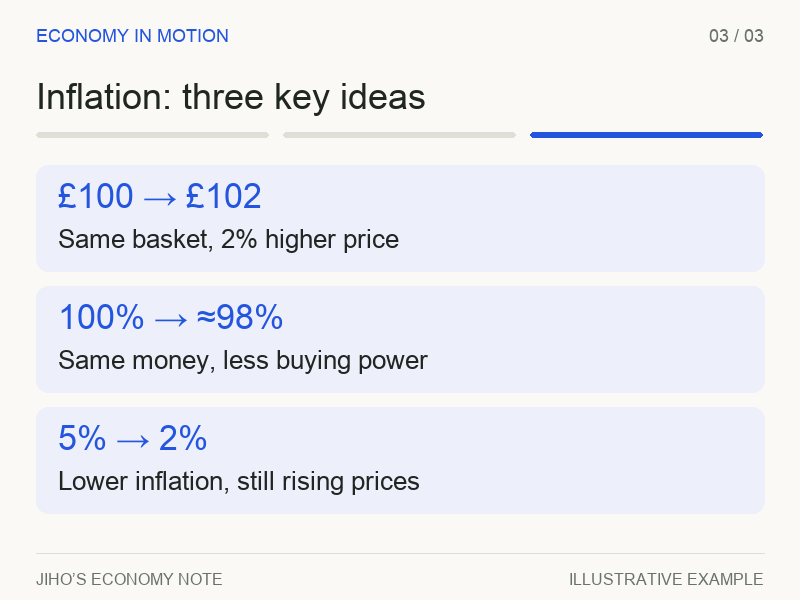
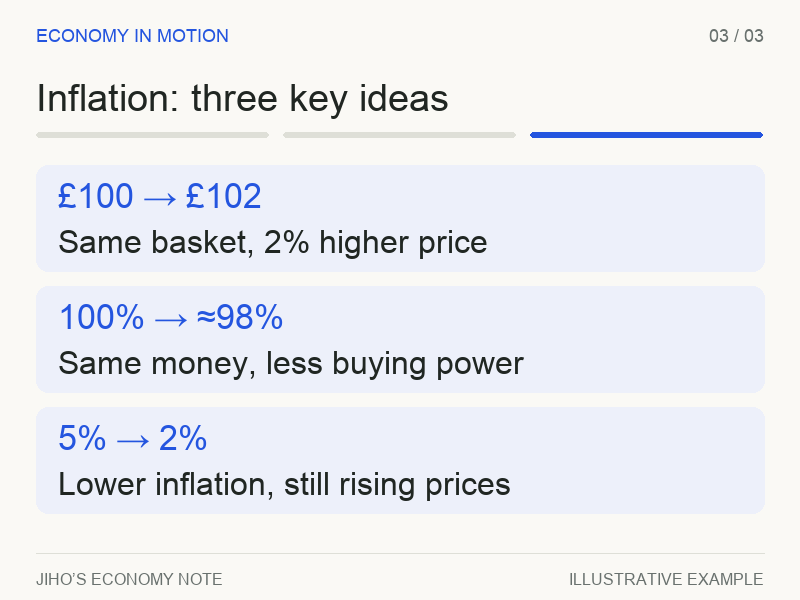
Expand inflation explanations and improve reading size and animation pacing

diff --git a/index.html b/index.html
@@ -7,9 +7,9 @@
   <meta name="theme-color" content="#2455df">
   <title>지호의 경제노트 · 일상에서 발견하는 경제</title>
   <link rel="icon" href="./favicon.svg" type="image/svg+xml">
-  <link rel="stylesheet" href="./styles.css?v=gif-1">
-  <script src="./i18n.js?v=gif-1" defer></script>
-  <script src="./app.js?v=gif-1" defer></script>
+  <link rel="stylesheet" href="./styles.css?v=readable-2">
+  <script src="./i18n.js?v=readable-2" defer></script>
+  <script src="./app.js?v=readable-2" defer></script>
 </head>
 <body>
   <a class="skip-link" href="#main">본문 바로가기</a>
@@ -24,14 +24,14 @@
   <main id="main">
     <section class="hero wrap" aria-labelledby="hero-title">
       <div class="hero-copy"><div class="eyebrow"><span class="small-dot"></span> EVERYDAY ECONOMICS</div>
-        <h1 id="hero-title">경제를 알면,<br>일상이 <span>다르게</span><br>보입니다.</h1>
-        <p>커피 한 잔의 가격부터 내 통장의 이자까지.<br>어려운 경제 이야기를, 우리 생활의 언어로 풀어봅니다.</p>
+        <h1 id="hero-title">경제를 알면,<br> 일상이 <span>다르게</span><br> 보입니다.</h1>
+        <p>커피 한 잔의 가격부터 내 통장의 이자까지.<br> 어려운 경제 이야기를, 우리 생활의 언어로 풀어봅니다.</p>
         <a class="button primary" href="#concepts">첫 번째 경제노트 펼치기 <span aria-hidden="true">↗</span></a>
         <div class="hero-caption"><span>01 — 06</span> 여섯 가지 개념으로 시작하는 경제 공부</div>
       </div>
       <div class="hero-visual" aria-label="커피 가격으로 배우는 물가 상승 예시">
         <div class="visual-top"><span>THE COFFEE INDEX</span><span>생활 속 경제 ↗</span></div>
-        <div class="visual-question">같은 커피인데,<br>왜 더 비싸졌을까?</div>
+        <div class="visual-question">같은 커피인데,<br> 왜 더 비싸졌을까?</div>
         <div class="coffee-art" aria-hidden="true"><div class="orbit orbit-one"></div><div class="orbit orbit-two"></div><div class="coffee-shadow"></div><div class="cup-lid"></div><div class="cup"><div class="cup-band"><span>e.</span><small>DAILY ECONOMY</small></div></div><span class="floating plus">+</span><span class="floating star">✳</span><div class="price price-before"><small>지난해</small><strong>4,000<span>원</span></strong></div><div class="price price-after"><small>올해</small><strong>4,200<span>원</span></strong><span class="price-change">+5%</span></div></div>
         <div class="visual-bottom"><span>가격 속에 숨어 있는 경제를 발견해 보세요.</span><span class="demo-label">가상 예시</span></div>
       </div>
@@ -42,22 +42,24 @@
       <div class="filters" role="group" aria-label="경제 개념 주제"><button class="filter active" data-filter="all" aria-pressed="true">전체 보기</button><button class="filter" data-filter="daily" aria-pressed="false">생활 속 경제</button><button class="filter" data-filter="money" aria-pressed="false">돈의 흐름</button><button class="filter" data-filter="big" aria-pressed="false">경제의 큰 그림</button></div>
       <p id="filter-status" class="sr-only" aria-live="polite">6개의 경제노트</p>
       <div class="notes-grid">
-        <button class="note-card" data-category="daily" data-lesson="inflation"><span class="card-top"><span>01 · 생활 속 경제</span><span aria-hidden="true">↗</span></span><span class="note-icon blue" aria-hidden="true">↗</span><h3>물가와 인플레이션</h3><p>만 원으로 살 수 있는 것이<br>점점 줄어드는 이유.</p><span class="card-bottom">돈의 구매력 이해하기 <span>읽기 →</span></span></button>
-        <button class="note-card" data-category="money" data-lesson="interest"><span class="card-top"><span>02 · 돈의 흐름</span><span aria-hidden="true">↗</span></span><span class="note-icon green" aria-hidden="true">%</span><h3>금리</h3><p>돈에도 가격이 있다면?<br>빌리는 돈과 맡기는 돈의 이야기.</p><span class="card-bottom">이자가 생기는 원리 <span>읽기 →</span></span></button>
-        <button class="note-card" data-category="money" data-lesson="exchange"><span class="card-top"><span>03 · 돈의 흐름</span><span aria-hidden="true">↗</span></span><span class="note-icon orange" aria-hidden="true">⇄</span><h3>환율</h3><p>달러 가격이 오르면<br>해외여행은 왜 비싸질까?</p><span class="card-bottom">두 나라 돈의 교환 비율 <span>읽기 →</span></span></button>
-        <button class="note-card" data-category="daily" data-lesson="supply"><span class="card-top"><span>04 · 생활 속 경제</span><span aria-hidden="true">↗</span></span><span class="note-icon orange" aria-hidden="true">⚖</span><h3>수요와 공급</h3><p>사려는 사람, 팔려는 사람.<br>가격은 그 사이에서 정해집니다.</p><span class="card-bottom">시장에서 가격이 만나는 곳 <span>읽기 →</span></span></button>
-        <button class="note-card" data-category="big" data-lesson="gdp"><span class="card-top"><span>05 · 경제의 큰 그림</span><span aria-hidden="true">↗</span></span><span class="note-icon blue" aria-hidden="true">▥</span><h3>GDP와 경제성장</h3><p>한 나라의 경제는<br>얼마나 커졌을까?</p><span class="card-bottom">생산의 크기로 읽는 경제 <span>읽기 →</span></span></button>
-        <button class="note-card" data-category="daily" data-lesson="opportunity"><span class="card-top"><span>06 · 생활 속 경제</span><span aria-hidden="true">↗</span></span><span class="note-icon green" aria-hidden="true">↔</span><h3>기회비용</h3><p>무언가를 선택할 때<br>함께 포기하게 되는 것.</p><span class="card-bottom">더 나은 선택의 시작 <span>읽기 →</span></span></button>
+        <button class="note-card" data-category="daily" data-lesson="inflation"><span class="card-top"><span>01 · 생활 속 경제</span><span aria-hidden="true">↗</span></span><span class="note-icon blue" aria-hidden="true">↗</span><h3>물가와 인플레이션</h3><p>만 원으로 살 수 있는 것이<br> 점점 줄어드는 이유.</p><span class="card-bottom">돈의 구매력 이해하기 <span>읽기 →</span></span></button>
+        <button class="note-card" data-category="money" data-lesson="interest"><span class="card-top"><span>02 · 돈의 흐름</span><span aria-hidden="true">↗</span></span><span class="note-icon green" aria-hidden="true">%</span><h3>금리</h3><p>돈에도 가격이 있다면?<br> 빌리는 돈과 맡기는 돈의 이야기.</p><span class="card-bottom">이자가 생기는 원리 <span>읽기 →</span></span></button>
+        <button class="note-card" data-category="money" data-lesson="exchange"><span class="card-top"><span>03 · 돈의 흐름</span><span aria-hidden="true">↗</span></span><span class="note-icon orange" aria-hidden="true">⇄</span><h3>환율</h3><p>달러 가격이 오르면<br> 해외여행은 왜 비싸질까?</p><span class="card-bottom">두 나라 돈의 교환 비율 <span>읽기 →</span></span></button>
+        <button class="note-card" data-category="daily" data-lesson="supply"><span class="card-top"><span>04 · 생활 속 경제</span><span aria-hidden="true">↗</span></span><span class="note-icon orange" aria-hidden="true">⚖</span><h3>수요와 공급</h3><p>사려는 사람, 팔려는 사람.<br> 가격은 그 사이에서 정해집니다.</p><span class="card-bottom">시장에서 가격이 만나는 곳 <span>읽기 →</span></span></button>
+        <button class="note-card" data-category="big" data-lesson="gdp"><span class="card-top"><span>05 · 경제의 큰 그림</span><span aria-hidden="true">↗</span></span><span class="note-icon blue" aria-hidden="true">▥</span><h3>GDP와 경제성장</h3><p>한 나라의 경제는<br> 얼마나 커졌을까?</p><span class="card-bottom">생산의 크기로 읽는 경제 <span>읽기 →</span></span></button>
+        <button class="note-card" data-category="daily" data-lesson="opportunity"><span class="card-top"><span>06 · 생활 속 경제</span><span aria-hidden="true">↗</span></span><span class="note-icon green" aria-hidden="true">↔</span><h3>기회비용</h3><p>무언가를 선택할 때<br> 함께 포기하게 되는 것.</p><span class="card-bottom">더 나은 선택의 시작 <span>읽기 →</span></span></button>
       </div>
     </section>
     <section id="animation" class="wrap animation-section" aria-labelledby="animation-title">
-      <div class="section-heading"><div><div class="eyebrow">ECONOMY IN MOTION / ORIGINAL GIF</div><h2 id="animation-title">움직이는 그림으로 배우는 물가</h2><p class="animation-intro">가격, 구매력, 물가상승률. 세 장면으로 연결해 보세요.</p></div></div>
+      <div class="section-heading"><div><div class="eyebrow">ECONOMY IN MOTION / ORIGINAL GIF</div><h2 id="animation-title">인플레이션: 같은 돈으로 살 수 있는 것이 줄어드는 이유</h2><p class="animation-intro">인플레이션은 여러 상품과 서비스의 전반적인 가격 수준이 지속적으로 오르는 현상입니다. 식료품, 교통비, 주거비 등이 전반적으로 비싸지면 같은 돈으로 살 수 있는 양, 즉 구매력이 줄어듭니다.</p></div></div>
+      <p class="inflation-definition">커피 한 잔의 가격이 올랐다고 전체 물가가 그만큼 오른 것은 아닙니다. 소비자물가지수(CPI)는 가계가 구매하는 다양한 상품과 서비스를 장바구니처럼 묶어 가격 변화를 측정합니다. 전년 대비 물가상승률은 이 지수가 1년 전보다 얼마나 변했는지를 나타냅니다.</p>
       <figure class="animation-figure">
         <img id="inflation-animation" src="./assets/inflation-en-still.png" width="800" height="600" loading="lazy" alt="물가 상승, 구매력 감소, 물가상승률 하락을 설명하는 세 가지 예시. 아래 글로 보기에 전체 설명이 있습니다.">
         <figcaption class="animation-caption">영란은행의 인플레이션 설명을 참고한 자체 제작 학습 자료입니다. 수치는 가상 예시이며, 원본 영상의 장면이나 음성은 사용하지 않았습니다.</figcaption>
       </figure>
       <div class="animation-controls"><button id="toggle-animation" class="button primary" type="button" aria-controls="inflation-animation">GIF 재생</button><a id="download-animation" href="./assets/inflation-en.gif" download>GIF 다운로드 ↓</a><span id="animation-status" role="status" aria-live="polite"></span></div>
-      <details class="animation-transcript"><summary>글로 보기 · 세 가지 핵심</summary><ol><li>같은 장바구니가 £100에서 £102가 되면 가격은 2% 오른 것입니다.</li><li>가격이 2% 오르면 같은 £100로 살 수 있는 양은 이전의 약 98%입니다. (100 ÷ 1.02 ≈ 98.04)</li><li>장바구니 가격이 £100 → £105 → £107.10으로 변하면 상승률은 5% → 2%로 낮아지지만, 가격은 계속 오릅니다.</li></ol></details>
+      <p class="inflation-causes">왜 물가가 오를까요? 사려는 수요가 생산·공급 능력보다 빠르게 늘거나, 에너지·원자재 같은 생산비가 오르면 가격에 상승 압력이 생길 수 있습니다. 여러 요인이 함께 작용하며 모든 품목의 가격이 똑같이 오르는 것은 아닙니다.</p>
+      <details class="animation-transcript" open><summary>글로 보기 · 세 가지 핵심</summary><ol><li><strong>물가상승률:</strong> 같은 장바구니가 £100에서 £102가 되면 가격은 2% 오른 것입니다. 상승률은 (102 − 100) ÷ 100 × 100으로 계산합니다.</li><li><strong>구매력:</strong> 가격이 2% 오르면 같은 £100로 살 수 있는 양은 이전의 약 98%입니다. (100 ÷ 1.02 ≈ 98.04) 같은 생활 수준을 유지하려면 더 많은 돈이 필요합니다.</li><li><strong>물가와 상승률의 차이:</strong> 장바구니 가격이 £100 → £105 → £107.10으로 변하면 상승률은 5% → 2%로 낮아지지만, 가격은 계속 오릅니다. 전반적인 물가 수준이 지속적으로 내려가는 현상은 디플레이션입니다.</li></ol></details>
       <p class="animation-source"><a href="https://www.bankofengland.co.uk/explainers/what-is-inflation" target="_blank" rel="noopener noreferrer">개념 참고 · 영란은행의 What is inflation? ↗</a></p>
     </section>
     <section id="watch" class="wrap video-section" aria-labelledby="video-title">
@@ -82,7 +84,7 @@
       </div></div></div>
     </section>
     <section id="quiz" class="wrap section quiz-section"><div><div class="eyebrow">03 / ONE QUICK QUESTION</div><h2>이해했는지, 한 문제만.</h2><p>작은 확인이 오래 남는 지식이 됩니다.</p></div><div class="quiz-content"><span id="quiz-progress" class="quiz-progress">QUESTION 01 / 03</span><h3 id="quiz-question">물가상승률이 5%에서 2%로 낮아졌어요. 물가는 어떻게 된 걸까요?</h3><div id="quiz-answers" class="quiz-answers"></div><p id="quiz-feedback" class="quiz-feedback" aria-live="polite"></p><button id="next-question" class="button primary" hidden>다음 문제 →</button></div></section>
-    <section id="about" class="wrap about"><span class="brand-symbol" aria-hidden="true">e.</span><div><div class="eyebrow">A NOTE FOR YOUR EVERYDAY</div><h2>경제는 우리의 매일에 있습니다.</h2><p>지호의 경제노트는 일상의 질문을 경제 개념과 연결하는 작은 학습 공간입니다.<br>여기에 쓰인 가격과 수치는 이해를 돕기 위한 가상 예시입니다.</p></div><a href="#concepts">다시 노트 펼치기 ↑</a></section>
+    <section id="about" class="wrap about"><span class="brand-symbol" aria-hidden="true">e.</span><div><div class="eyebrow">A NOTE FOR YOUR EVERYDAY</div><h2>경제는 우리의 매일에 있습니다.</h2><p>지호의 경제노트는 일상의 질문을 경제 개념과 연결하는 작은 학습 공간입니다.<br> 여기에 쓰인 가격과 수치는 이해를 돕기 위한 가상 예시입니다.</p></div><a href="#concepts">다시 노트 펼치기 ↑</a></section>
   </main>
   <footer class="wrap"><span>지호의 경제노트 <span class="footer-divider">/</span> 배움을 위한 데모 사이트</span><a href="https://www.bankofengland.co.uk/explainers/what-is-inflation" target="_blank" rel="noopener noreferrer">더 읽기 · 영란은행의 물가 설명 ↗</a><a href="#">맨 위로 ↑</a></footer>
   <dialog id="lesson-dialog" aria-labelledby="lesson-title"><div class="dialog-toolbar"><span class="eyebrow">ECONOMY NOTE</span><button id="close-lesson" class="close-button" aria-label="경제노트 닫기">×</button></div><h2 id="lesson-title"></h2><div id="lesson-body"></div><button id="lesson-done" class="button primary">잘 읽었어요 ✓</button></dialog>

diff --git a/i18n.js b/i18n.js
@@ -8,12 +8,12 @@ const englishUI = [
   ['nav a[href="#lab"]', 'Economy lab'],
   ['nav a[href="#quiz"]', 'Quick quiz'],
   ['.header-link', 'About <span aria-hidden="true">↗</span>'],
-  ['#hero-title', 'See everyday life<br>through an<br><span>economic lens.</span>'],
-  ['.hero-copy > p', 'From a cup of coffee to the interest on your savings.<br>Explore economics in the language of everyday life.'],
+  ['#hero-title', 'See everyday life<br> through an<br> <span>economic lens.</span>'],
+  ['.hero-copy > p', 'From a cup of coffee to the interest on your savings.<br> Explore economics in the language of everyday life.'],
   ['.hero-copy .button', 'Open your first note <span aria-hidden="true">↗</span>'],
   ['.hero-caption', '<span>01 — 06</span> Six concepts to start your economics journey'],
   ['.visual-top span:last-child', 'Everyday economics ↗'],
-  ['.visual-question', 'Same coffee.<br>Why a higher price?'],
+  ['.visual-question', 'Same coffee.<br> Why a higher price?'],
   ['.price-before small', 'Last year'], ['.price-after small', 'This year'],
   ['.price-before strong', '4,000<span>KRW</span>'], ['.price-after strong', '4,200<span>KRW</span>'],
   ['.visual-bottom > span:first-child', 'Discover the economics hidden in a price.'],
@@ -29,12 +29,14 @@ const englishUI = [
   ['.section-note', 'Six easy-to-read notes'],
   ['[data-filter="all"]', 'All notes'], ['[data-filter="daily"]', 'Everyday economics'],
   ['[data-filter="money"]', 'Money in motion'], ['[data-filter="big"]', 'The bigger picture'],
-  ['#animation-title', 'Inflation, in motion.'],
-  ['.animation-intro', 'Connect prices, purchasing power, and inflation in three short scenes.'],
+  ['#animation-title', 'Inflation: why the same money buys less.'],
+  ['.animation-intro', 'Inflation is a sustained rise in the overall price level of goods and services. When prices across groceries, transport, housing, and other spending rise, the same money buys less. This is a loss of purchasing power.'],
+  ['.inflation-definition', 'One more expensive coffee does not tell us how much prices have risen overall. The Consumer Price Index (CPI) tracks a basket of goods and services that households buy. The year-on-year inflation rate measures how much that index has changed compared with a year earlier.'],
+  ['.inflation-causes', 'Why do prices rise? Demand growing faster than the economy can supply goods and services, or higher production costs such as energy and raw materials, can push prices up. Several forces can act together, and individual prices do not all rise at the same rate.'],
   ['.animation-caption', 'An original learning animation informed by the Bank of England’s inflation explainer. Figures are illustrative; no footage or audio from the original video is used.'],
   ['#download-animation', 'Download GIF ↓'],
   ['.animation-transcript summary', 'Read the three key ideas'],
-  ['.animation-transcript ol', '<li>If the same basket rises from £100 to £102, its price has risen by 2%.</li><li>After a 2% price rise, the same £100 buys about 98% of the original basket. (100 ÷ 1.02 ≈ 98.04)</li><li>If the basket costs £100 → £105 → £107.10, inflation falls from 5% to 2%, but prices keep rising.</li>'],
+  ['.animation-transcript ol', '<li><strong>Inflation rate:</strong> If the same basket rises from £100 to £102, its price has risen by 2%. Calculate the change as (102 − 100) ÷ 100 × 100.</li><li><strong>Purchasing power:</strong> After a 2% price rise, the same £100 buys about 98% of the original basket. (100 ÷ 1.02 ≈ 98.04) Maintaining the same standard of living now costs more.</li><li><strong>Prices versus inflation:</strong> If the basket costs £100 → £105 → £107.10, inflation falls from 5% to 2%, but prices keep rising. A sustained fall in the overall price level is called deflation.</li>'],
   ['.animation-source a', 'Concept reference · Bank of England: What is inflation? ↗'],
   ['#video-title', 'See inflation explained.'],
   ['.video-description', 'Explore what rising prices mean with the Bank of England’s “What is inflation?” video.'],
@@ -56,7 +58,7 @@ const englishUI = [
   ['#quiz h2', 'One question to make it stick.'],
   ['#quiz > div:first-child > p', 'A small check can turn an idea into lasting knowledge.'],
   ['#about h2', 'Economics is part of every day.'],
-  ['#about p', 'Jiho’s Economy Note connects everyday questions with economic ideas.<br>Prices and figures here are illustrative examples for learning.'],
+  ['#about p', 'Jiho’s Economy Note connects everyday questions with economic ideas.<br> Prices and figures here are illustrative examples for learning.'],
   ['#about > a', 'Back to the notes ↑'],
   ['footer > span', 'Jiho’s Economy Note <span class="footer-divider">/</span> A demo for learning'],
   ['footer a[target]', 'Further reading · Bank of England on inflation ↗'],
@@ -64,12 +66,12 @@ const englishUI = [
 ];
 
 const englishCards = {
-  inflation: ['Prices and inflation', 'Why the same money buys less<br>as prices rise.', 'Understanding purchasing power'],
-  interest: ['Interest rates', 'What if money has a price?<br>A story of borrowing and saving.', 'How interest works'],
-  exchange: ['Exchange rates', 'Why does a stronger dollar<br>make travel more expensive?', 'Trading one currency for another'],
-  supply: ['Supply and demand', 'People who buy. People who sell.<br>Prices emerge where they meet.', 'How markets find a price'],
-  gdp: ['GDP and economic growth', 'How do we measure<br>the size of an economy?', 'Understanding economic output'],
-  opportunity: ['Opportunity cost', 'Every time we choose,<br>we also give something up.', 'The starting point for better choices']
+  inflation: ['Prices and inflation', 'Why the same money buys less<br> as prices rise.', 'Understanding purchasing power'],
+  interest: ['Interest rates', 'What if money has a price?<br> A story of borrowing and saving.', 'How interest works'],
+  exchange: ['Exchange rates', 'Why does a stronger dollar<br> make travel more expensive?', 'Trading one currency for another'],
+  supply: ['Supply and demand', 'People who buy. People who sell.<br> Prices emerge where they meet.', 'How markets find a price'],
+  gdp: ['GDP and economic growth', 'How do we measure<br> the size of an economy?', 'Understanding economic output'],
+  opportunity: ['Opportunity cost', 'Every time we choose,<br> we also give something up.', 'The starting point for better choices']
 };
 const englishCategories = {daily:'Everyday economics', money:'Money in motion', big:'The bigger picture'};
 

diff --git a/styles.css b/styles.css
@@ -10,3 +10,11 @@
 @media(max-width:760px){.video-section{align-items:flex-start;gap:18px;padding:26px 22px;margin-bottom:48px}.video-symbol{width:38px;height:38px;font-size:16px;padding-left:3px}.video-copy h2{font-size:23px}.video-link{font-size:12px;padding:12px 15px}.video-description{font-size:13px}.video-help{font-size:11px}}
 @media(max-width:420px){.video-section{display:block}.video-symbol{margin-bottom:18px}}
 .animation-section{padding-bottom:48px}.animation-figure{margin:0;background:#fffefa;border:1px solid var(--line);border-radius:12px;overflow:hidden}.animation-figure img{display:block;width:100%;max-width:800px;height:auto;margin:auto}.animation-caption{padding:18px 24px;border-top:1px solid var(--line);font-size:12px;color:var(--muted);line-height:1.8}.animation-controls{display:flex;align-items:center;flex-wrap:wrap;gap:18px;margin-top:20px}.animation-controls a{color:var(--blue);font-size:13px;text-decoration:underline;text-underline-offset:4px}#animation-status{font-size:12px;color:var(--muted)}.animation-transcript{margin-top:24px;border-block:1px solid var(--line);padding-block:16px;font-size:14px}.animation-transcript summary{cursor:pointer;font-weight:600}.animation-transcript summary:focus-visible{outline:3px solid var(--blue);outline-offset:5px}.animation-transcript li{margin-block:12px}.animation-source{font-size:12px;color:var(--muted)}.animation-source a{text-decoration:underline;text-underline-offset:4px}@media(max-width:760px){.animation-caption{padding:16px;font-size:11px}.animation-controls{gap:14px}.animation-controls .button{font-size:12px;padding:12px 16px}#animation-status{width:100%}.animation-transcript{font-size:13px}.animation-transcript ol{padding-left:24px}}
+/* Readable learning copy: 18pt equals 24 CSS pixels. */
+:root{--reading-size:24px;--support-size:18px}
+html[lang] .hero-copy>p,html[lang] .section-heading p,html[lang] .note-card p,html[lang] .lab-controls>p,html[lang] .lab-footnote,html[lang] .quiz-section>div>p,html[lang] .quiz-feedback,html[lang] .about p,html[lang] #lesson-body,html[lang] .video-description,html[lang] .animation-transcript,html[lang] .inflation-definition,html[lang] .inflation-causes{font-size:var(--reading-size);line-height:1.75}
+html[lang] h2{font-size:36px;line-height:1.35}html[lang] .note-card h3,html[lang] .lab-controls h3,html[lang] .quiz-content h3,html[lang] #lesson-body h3{font-size:28px;line-height:1.45;min-height:0}
+html[lang] .animation-caption,html[lang] .video-help,html[lang] .animation-source,html[lang] #animation-status,html[lang] .animation-controls a,html[lang] .button,html[lang] .quiz-answer,html[lang] .field-label,html[lang] .range-label,html[lang] .result-top,html[lang] #difference,html[lang] .formula,html[lang] #amount-help,html[lang] .text-button,html[lang] #lesson-body a{font-size:var(--support-size);line-height:1.6}
+html[lang] .note-card p{min-height:0}html[lang] .hero-copy>p{max-width:none}.notes-grid{grid-template-columns:repeat(2,minmax(0,1fr))}.card-bottom{font-size:14px}.card-top,html[lang=en] .card-top{font-size:14px}.animation-section .section-heading{max-width:980px}.inflation-definition,.inflation-causes{max-width:980px;margin:0 0 32px}.inflation-causes{margin-top:32px}.animation-transcript li{margin-block:24px}.animation-transcript ol{padding-left:32px}dialog{max-width:780px}.lab-grid,.quiz-section{gap:36px;grid-template-columns:minmax(0,1fr) minmax(0,1.2fr)}.quiz-content{padding-left:28px}.about{flex-wrap:wrap}.about>div{flex:1;min-width:0}.about p br,.hero-copy>p br,.note-card p br{display:none}
+@media(max-width:1000px){.hero{grid-template-columns:1fr}.hero-visual{max-width:600px;width:100%;margin-inline:auto}.lab-grid,.quiz-section{grid-template-columns:1fr}.quiz-content{padding-left:0;border-left:0;border-top:1px solid var(--line);padding-top:24px}}
+@media(max-width:760px){.notes-grid{grid-template-columns:1fr}.note-card{padding:24px 24px 0}.card-bottom>span{display:inline}html[lang] h2{font-size:30px}html[lang] .note-card h3{font-size:28px}.video-section{display:block}.video-symbol{margin-bottom:18px}.about{display:block}.about .brand-symbol{margin-bottom:18px}.animation-caption{padding:20px}.animation-transcript ol{padding-left:28px}.animation-controls .button{max-width:100%;white-space:normal}}

diff --git a/app.js b/app.js
@@ -63,11 +63,11 @@ let animationPlaying = !reducedMotion.matches;
 
 function updateAnimation() {
   const base = `./assets/inflation-${language}`;
-  const source = base + (animationPlaying ? '.gif' : '-still.png');
+  const source = base + (animationPlaying ? '.gif?v=readable-2' : '-still.png?v=readable-2');
   if (animationImage.getAttribute('src') !== source) animationImage.setAttribute('src', source);
-  document.querySelector('#download-animation').href = base + '.gif';
+  document.querySelector('#download-animation').href = base + '.gif?v=readable-2';
   animationToggle.textContent = animationPlaying ? t('정지하고 요약 보기', 'Stop and show summary') : t('GIF 재생', 'Play GIF');
-  document.querySelector('#animation-status').textContent = animationPlaying ? t('약 18초 · 반복 재생 · 소리 없음', '18-second loop · No audio') : t('정지된 요약 이미지', 'Still summary');
+  document.querySelector('#animation-status').textContent = animationPlaying ? t('장면당 12초 · 총 36초 · 소리 없음', '12 seconds per scene · 36-second loop · No audio') : t('정지된 요약 이미지', 'Still summary');
 }
 animationToggle.addEventListener('click', () => { animationPlaying = !animationPlaying; updateAnimation(); });
 reducedMotion.addEventListener('change', event => { animationPlaying = !event.matches; updateAnimation(); });

diff --git a/scripts/generate-inflation-gif.py b/scripts/generate-inflation-gif.py
@@ -36,7 +36,7 @@ def base(lang, step, title):
     d = ImageDraw.Draw(im)
     text(d,(36,25),'ECONOMY IN MOTION', 'en',18,BLUE)
     text(d,(764,25),f'{step:02d} / 03','en',18,MUTED,'ra')
-    text(d,(36,76),title,lang,36)
+    text(d,(36,76),title,lang,38)
     for i in range(3):
         x = 36+i*247
         d.rounded_rectangle((x,132,x+232,137), radius=2,fill=BLUE if i==step-1 else LINE)
@@ -58,7 +58,7 @@ def frame(lang,scene,p):
     im,d = base(lang,scene+1,c[0])
     if scene<2:
         for x in [36,416]: d.rounded_rectangle((x,163,x+348,430),18,fill=PALE if x==416 else '#eef1e9')
-        for cx,label in [(210,c[1]),(590,c[2])]: text(d,(cx,181),label,lang,22,MUTED,'ma')
+        for cx,label in [(210,c[1]),(590,c[2])]: text(d,(cx,181),label,lang,28,MUTED,'ma')
         if scene==0:
             basket(d,210,255); basket(d,590,255)
             text(d,(210,343),'£100',lang,52,INK,'ma')
@@ -73,15 +73,15 @@ def frame(lang,scene,p):
         lines = c[3:5]
     else:
         for i,(cx,val) in enumerate([(156,100),(400,105),(644,105+2.1*p)]):
-            text(d,(cx,174),c[1+i],lang,21,MUTED,'ma')
+            text(d,(cx,174),c[1+i],lang,28,MUTED,'ma')
             height=val*1.8  # A zero baseline keeps the price comparison proportional.
             d.rounded_rectangle((cx-70,414-height,cx+70,414),9,fill=BLUE if i==2 else '#9cadde')
             text(d,(cx,423),f'£{val:g}' if i<2 else f'£{val:.2f}',lang,29,INK,'ma')
         text(d,(280,230),'+5%',lang,27,GREEN,'ma')
         text(d,(521,205),'+2%',lang,27,BLUE,'ma')
         lines=c[4:6]
-    text(d,(400,479),lines[0],lang,26,INK,'ma')
-    text(d,(400,516),lines[1],lang,26,INK,'ma')
+    text(d,(400,479),lines[0],lang,32,INK,'ma')
+    text(d,(400,516),lines[1],lang,32,INK,'ma')
     return im
 
 for lang in COPY:
@@ -89,7 +89,7 @@ for lang in COPY:
     for scene in range(3):
         for j in range(21):
             frames.append(frame(lang,scene,j/20))
-            durations.append(1300 if j==0 else 3200 if j==20 else 80)
+            durations.append(2200 if j==0 else 6950 if j==20 else 150)
     # One shared palette avoids flickering between animation frames.
     samples = Image.new('RGB', (W,H*3))
     for scene in range(3): samples.paste(frame(lang,scene,1),(0,H*scene))
@@ -104,7 +104,7 @@ for lang in COPY:
         y=165+i*121
         d.rounded_rectangle((36,y,764,y+106),12,fill=PALE)
         text(d,(58,y+12),number,lang,34,BLUE)
-        text(d,(58,y+59),label,lang,26)
+        text(d,(58,y+59),label,lang,32)
     im.save(OUT/f'inflation-{lang}-still.png',optimize=True)
     with Image.open(OUT/f'inflation-{lang}.gif') as gif:
         print(lang,gif.size,gif.n_frames,'frames',sum(gif.seek(i) or gif.info['duration'] for i in range(gif.n_frames)),'ms', (OUT/f'inflation-{lang}.gif').stat().st_size,'bytes')
